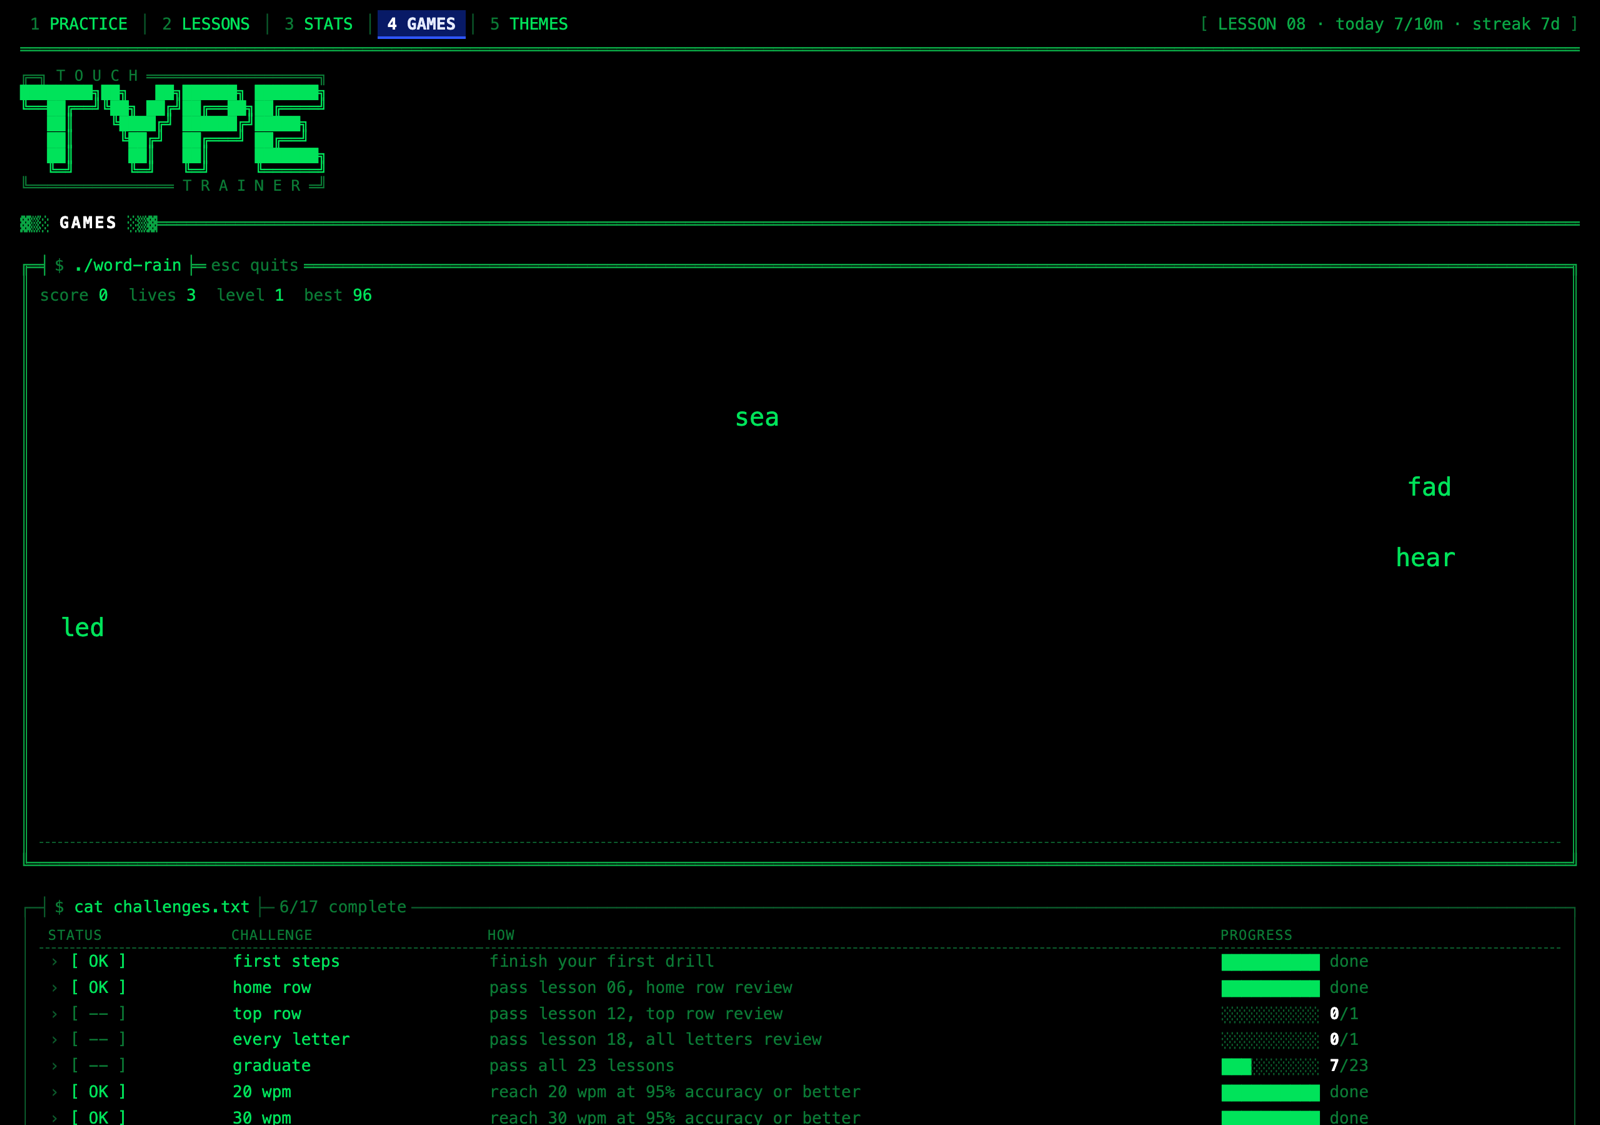
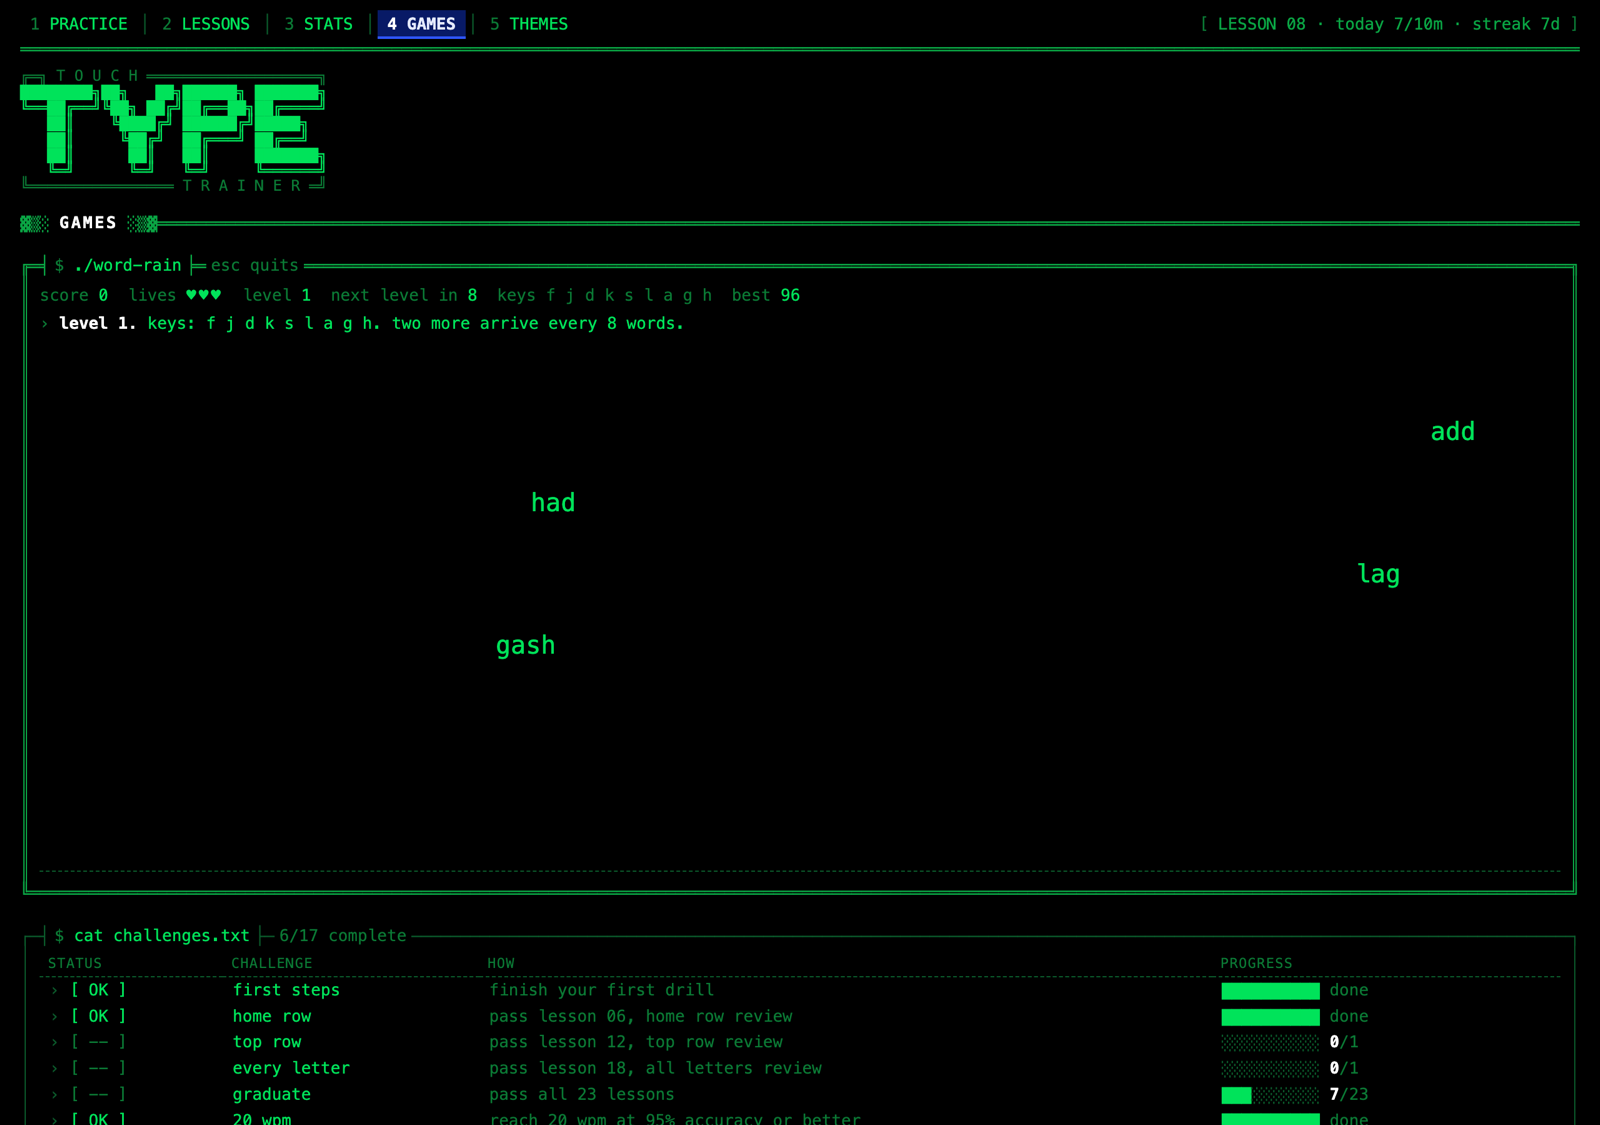
Word Rain levels: two new keys per level, hearts, backspace
Word Rain now starts with a few keys and adds two more every 8 words,
gives a life back each level and lets Backspace drop the locked word.
Updated the games screenshot and the README to match.

diff --git a/web/index.html b/web/index.html
@@ -176,6 +176,11 @@ textarea.in { width: 100%; box-sizing: border-box; resize: vertical; display: bl
 .big.k-red { color: var(--k-red); }
 .big2 { font-size: 2em; white-space: pre; }
 #gameOver { margin-top: 10px; display: grid; gap: 6px; }
+.hearts { letter-spacing: .15em; }
+.w.bad { color: var(--k-red); }
+.w.hit { color: var(--k-red); text-decoration: line-through; }
+#field.hurt { border-bottom: 2px solid var(--k-red); }
+#gameMsg { margin: 4px 0 0; }
 
 /* ── keyboard ── */
 .kbwrap { display: grid; justify-items: center; gap: 12px; padding-block: 8px 4px; }
@@ -347,6 +352,7 @@ textarea.in { width: 100%; box-sizing: border-box; resize: vertical; display: bl
   <div class="body">
     <div class="cmdtbl" id="gameMenu"></div>
     <div class="live" id="gameHud" hidden></div>
+    <p class="msg" id="gameMsg" aria-live="polite" hidden></p>
     <div id="field" hidden></div>
     <div id="gameOver" hidden></div>
   </div>
@@ -855,9 +861,9 @@ textarea.in { width: 100%; box-sizing: border-box; resize: vertical; display: bl
 
   /* ── games ── */
   let G = null;
-  const fieldEl = $('#field'), hudEl = $('#gameHud'), overEl = $('#gameOver'), menuEl = $('#gameMenu');
+  const fieldEl = $('#field'), hudEl = $('#gameHud'), overEl = $('#gameOver'), menuEl = $('#gameMenu'), msgEl = $('#gameMsg');
   const GAMES = {
-    rain: ['WORD RAIN', 'words fall. type one before it lands. three landings and it is over.'],
+    rain: ['WORD RAIN', 'words fall. type one before it lands. three landings and it is over. every 8 words is a new level with two new keys, and one life back. backspace lets go of a word.'],
     rush: ['KEY RUSH', 'one key at a time. hit as many as you can in 30 seconds.'],
     run: ['PERFECT RUN', 'type word after word, with a space between. the first wrong key ends the run.']
   };
@@ -879,7 +885,7 @@ textarea.in { width: 100%; box-sizing: border-box; resize: vertical; display: bl
   function stopGame() {
     if (G && G.timer) clearInterval(G.timer);
     G = null;
-    menuEl.hidden = false; fieldEl.hidden = true; hudEl.hidden = true; overEl.hidden = true;
+    menuEl.hidden = false; fieldEl.hidden = true; hudEl.hidden = true; overEl.hidden = true; msgEl.hidden = true;
     fieldEl.textContent = '';
     $('#gameCmd').textContent = 'ls games/';
     renderGames();
@@ -892,9 +898,14 @@ textarea.in { width: 100%; box-sizing: border-box; resize: vertical; display: bl
     menuEl.hidden = true; overEl.hidden = true; overEl.innerHTML = '';
     fieldEl.hidden = false; hudEl.hidden = false; fieldEl.textContent = '';
     fieldEl.className = id === 'rain' ? '' : 'center';
+    msgEl.hidden = id !== 'rain'; msgEl.innerHTML = '';
     $('#gameCmd').textContent = './' + GAMES[id][0].toLowerCase().replace(' ', '-');
     $('#gameNote').textContent = 'esc quits';
-    if (id === 'rain') { G.words = []; G.lives = 3; G.nextSpawn = 0; G.done = 0; G.lock = null; }
+    if (id === 'rain') {
+      G.words = []; G.lives = RAIN_LIVES; G.nextSpawn = 0; G.done = 0; G.lock = null; G.hurt = 0; G.base = rainBase();
+      rainLevel(1);
+      say('<b>level 1.</b> keys: ' + G.letters.join(' ') + '. two more arrive every ' + RAIN_STEP + ' words.');
+    }
     if (id === 'rush') { G.letters = gameKeys().split('').filter((c) => c >= 'a' && c <= 'z'); G.cur = ''; nextRush(); }
     if (id === 'run') { G.queue = []; while (G.queue.length < 5) G.queue.push(rnd(G.pool)); G.pos = 0; drawRun(); }
     G.timer = setInterval(tick, 40);
@@ -911,15 +922,57 @@ textarea.in { width: 100%; box-sizing: border-box; resize: vertical; display: bl
     fieldEl.innerHTML = '<div><div class="big2"><span class="c ok">' + esc(w.slice(0, G.pos)) + '</span><span class="c cur">' + esc(G.pos < w.length ? w[G.pos] : ' ') + '</span><span class="c">' + esc(w.slice(G.pos + 1)) + '</span></div>' +
       '<div class="k-dim">next: ' + esc(G.queue.slice(1, 4).join(' ')) + '</div></div>';
   }
-  function drawWord(w) { w.el.firstChild.textContent = w.t.slice(0, w.p); w.el.lastChild.textContent = w.t.slice(w.p); }
+  /* word rain: keys arrive two at a time, in lesson order. words are a-z only, so paint() is safe as html */
+  const RAIN_ORDER = LES.filter((L) => !L.t && !L.rev).map((L) => L.f).join('').replace(/[^a-z]/g, '').split('');
+  const RAIN_LIVES = 3, RAIN_STEP = 8;
+  const say = (html) => { msgEl.innerHTML = html; };
+  const hearts = (n) => { n = Math.max(0, Math.min(RAIN_LIVES, n)); return '<span class="hearts"><b>' + '♥'.repeat(n) + '</b><span class="k-line">' + '♡'.repeat(RAIN_LIVES - n) + '</span></span>'; };
+  const paint = (t) => t.split('').map((c) => (G.fresh.includes(c) ? '<span class="k-yellow">' + c + '</span>' : c)).join('');
+  function rainBase() {
+    const a = gameKeys();
+    return Math.max(4, Math.min(9, RAIN_ORDER.filter((c) => a.includes(c)).length));
+  }
+  function rainLevel(level) {
+    const n = Math.min(RAIN_ORDER.length, G.base + (level - 1) * 2);
+    const was = level > 1 ? Math.min(RAIN_ORDER.length, G.base + (level - 2) * 2) : n;
+    G.level = level; G.letters = RAIN_ORDER.slice(0, n); G.fresh = RAIN_ORDER.slice(was, n);
+    const al = new Set(G.letters);
+    const pool = WORDS.filter((w) => { for (const c of w) if (!al.has(c)) return false; return true; });
+    let guard = 0;
+    while (pool.length < 14 && guard++ < 400) {
+      let t = '';
+      const len = 2 + Math.floor(Math.random() * 3);
+      for (let i = 0; i < len; i++) t += G.fresh.length && Math.random() < 0.5 ? rnd(G.fresh) : rnd(G.letters);
+      if (!pool.includes(t)) pool.push(t);
+    }
+    G.pool = pool;
+    G.poolNew = pool.filter((w) => G.fresh.some((c) => w.includes(c)));
+  }
+  function rainUp() {
+    rainLevel(G.level + 1);
+    let m = '<b>level ' + G.level + '.</b> ' + (G.fresh.length ? 'new keys: <span class="k-yellow">' + G.fresh.join(' ') + '</span>.' : 'all 26 letters are in. it only gets faster now.');
+    if (G.lives < RAIN_LIVES) { G.lives++; m += ' one life back.'; }
+    say(m); beep('done');
+  }
+  function landed(w, now) {
+    w.dead = now + 500;
+    w.el.classList.remove('lock'); w.el.classList.add('hit');
+    if (G.lock === w) G.lock = null;
+    G.lives--; G.hurt = now + 500; fieldEl.classList.add('hurt');
+    say('<span class="k-red">"' + w.t + '" landed. life lost, ' + Math.max(0, G.lives) + ' left.</span>');
+    beep('bad');
+  }
+  function drawWord(w) { w.el.firstChild.textContent = w.t.slice(0, w.p); w.el.lastChild.innerHTML = paint(w.t.slice(w.p)); }
   function dropWord(w) {
     w.el.remove();
     G.words.splice(G.words.indexOf(w), 1);
     if (G.lock === w) G.lock = null;
   }
   function spawn() {
-    let t = rnd(G.pool), guard = 0;
-    while (G.words.some((w) => w.t[0] === t[0]) && guard++ < 12) t = rnd(G.pool);
+    const live = G.words.filter((w) => !w.dead);
+    const pick = () => (G.poolNew.length && Math.random() < 0.6 ? rnd(G.poolNew) : rnd(G.pool));
+    let t = pick(), guard = 0;
+    while (live.some((w) => w.t[0] === t[0]) && guard++ < 12) t = pick();
     const el = document.createElement('span');
     el.className = 'w';
     el.innerHTML = '<span class="ok"></span><span></span>';
@@ -934,15 +987,17 @@ textarea.in { width: 100%; box-sizing: border-box; resize: vertical; display: bl
     const now = performance.now(), dt = Math.min((now - G.last) / 1000, 0.2);
     G.last = now;
     if (G.id === 'rain') {
-      const level = 1 + Math.floor(G.done / 8);
-      if (now >= G.nextSpawn && G.words.length < 3 + level) { spawn(); G.nextSpawn = now + Math.max(700, 2300 - level * 160); }
+      const live = G.words.filter((w) => !w.dead).length;
+      if (now >= G.nextSpawn && live < Math.min(8, 3 + G.level)) { spawn(); G.nextSpawn = now + Math.max(1000, 2400 - G.level * 120); }
       const floor = fieldEl.clientHeight - parseFloat(getComputedStyle(fieldEl).fontSize) * 1.5;
-      const speed = 20 + level * 6;
+      const speed = 22 + G.level * 3;
       G.words.slice().forEach((w) => {
+        if (w.dead) { if (now >= w.dead) dropWord(w); return; }
         w.y += speed * dt;
+        if (w.y >= floor) { w.y = floor; landed(w, now); }
         w.el.style.transform = 'translateY(' + w.y.toFixed(1) + 'px)';
-        if (w.y >= floor) { dropWord(w); G.lives--; beep('bad'); }
       });
+      if (G.hurt && now >= G.hurt) { G.hurt = 0; fieldEl.classList.remove('hurt'); }
       if (G.lives <= 0) { endGame(); return; }
     } else if (G.id === 'rush' && now - G.start >= 30000) { endGame(); return; }
     hud();
@@ -951,7 +1006,7 @@ textarea.in { width: 100%; box-sizing: border-box; resize: vertical; display: bl
     if (!G) return;
     const best = '<span>best <b>' + (S.games[G.id] || 0) + '</b></span>';
     let h;
-    if (G.id === 'rain') h = '<span>score <b>' + G.score + '</b></span><span>lives <b>' + Math.max(0, G.lives) + '</b></span><span>level <b>' + (1 + Math.floor(G.done / 8)) + '</b></span>';
+    if (G.id === 'rain') h = '<span>score <b>' + G.score + '</b></span><span>lives ' + hearts(G.lives) + '</span><span>level <b>' + G.level + '</b></span><span>next level in <b>' + (RAIN_STEP - G.done % RAIN_STEP) + '</b></span><span>keys ' + paint(G.letters.join(' ')) + '</span>';
     else if (G.id === 'rush') h = '<span>time left <b>0:' + pad2(Math.max(0, 30 - Math.floor((performance.now() - G.start) / 1000))) + '</b></span><span>keys <b>' + G.score + '</b></span><span>wrong <b>' + G.miss + '</b></span>';
     else h = '<span>words <b>' + G.score + '</b></span><span>one wrong key ends it</span>';
     h += best;
@@ -960,17 +1015,23 @@ textarea.in { width: 100%; box-sizing: border-box; resize: vertical; display: bl
   function gameKey(k) {
     if (!G || G.over) return;
     if (G.id === 'rain') {
+      if (k === 'Backspace') {
+        const l = G.lock;
+        if (l) { l.p = 0; l.el.classList.remove('lock'); G.lock = null; drawWord(l); }
+        return;
+      }
+      k = k.toLowerCase();
       if (!G.lock) {
         let pick = null;
-        G.words.forEach((w) => { if (w.t[0] === k && (!pick || w.y > pick.y)) pick = w; });
+        G.words.forEach((w) => { if (!w.dead && w.t[0] === k && (!pick || w.y > pick.y)) pick = w; });
         if (!pick) { G.miss++; beep('bad'); hud(); return; }
         G.lock = pick; pick.el.classList.add('lock');
       }
       const w = G.lock;
       if (w.t[w.p] === k) {
         w.p++; beep('ok'); drawWord(w);
-        if (w.p >= w.t.length) { G.score += w.t.length; G.done++; dropWord(w); }
-      } else { G.miss++; beep('bad'); }
+        if (w.p >= w.t.length) { G.score += w.t.length; G.done++; dropWord(w); if (G.done % RAIN_STEP === 0) rainUp(); }
+      } else { G.miss++; beep('bad'); w.el.classList.add('bad'); setTimeout(() => w.el.classList.remove('bad'), 200); }
     } else if (G.id === 'rush') {
       if (k === G.cur) { G.score++; beep('ok'); nextRush(); }
       else { G.miss++; beep('bad'); if (fieldEl.firstChild) fieldEl.firstChild.classList.add('k-red'); }
@@ -997,7 +1058,7 @@ textarea.in { width: 100%; box-sizing: border-box; resize: vertical; display: bl
     save(); beep('done'); renderToday();
     fieldEl.hidden = true;
     overEl.innerHTML = '<div class="res-nums"><span><span class="num">' + G.score + '</span> ' + (G.id === 'rain' ? 'score' : G.id === 'rush' ? 'keys' : 'words') + '</span><span>best <b>' + Math.max(old, G.score) + '</b></span>' +
-      (nb ? '<span><b>new best</b></span>' : '') + (G.id !== 'run' ? '<span>wrong keys <b>' + G.miss + '</b></span>' : '') + '</div>' + achLine(earned) +
+      (nb ? '<span><b>new best</b></span>' : '') + (G.id === 'rain' ? '<span>level <b>' + G.level + '</b></span><span>words <b>' + G.done + '</b></span>' : '') + (G.id !== 'run' ? '<span>wrong keys <b>' + G.miss + '</b></span>' : '') + '</div>' + achLine(earned) +
       '<div class="ctrls"><button class="run" type="button" data-game="' + G.id + '">▶ PLAY AGAIN</button><span class="hint"><kbd>enter</kbd></span>' +
       '<button class="run" type="button" data-game="menu">▶ BACK TO GAMES</button><span class="hint"><kbd>esc</kbd></span></div>';
     overEl.hidden = false;
@@ -1174,7 +1235,7 @@ textarea.in { width: 100%; box-sizing: border-box; resize: vertical; display: bl
     }
     if (page === 'games' && G && !G.over) {
       if (k === 'Escape') { e.preventDefault(); stopGame(); }
-      else if (k.length === 1) { e.preventDefault(); gameKey(k); }
+      else if (k.length === 1 || (k === 'Backspace' && G.id === 'rain')) { e.preventDefault(); gameKey(k); }
       return;
     }
     if (page === 'games' && G && G.over) {
@@ -1201,6 +1262,5 @@ textarea.in { width: 100%; box-sizing: border-box; resize: vertical; display: bl
   startDrill();
 })();
 </script>
-
 </body>
 </html>

diff --git a/README.md b/README.md
@@ -44,7 +44,7 @@ Needs macOS 12 or later and the Xcode Command Line Tools (`xcode-select --instal
 - **Your own words.** Paste product names, code or anything you type often, and practise on it.
 - **Stats.** Accuracy and timing per key, speed per finger, a keyboard heat map and your words per minute over time.
 - **Daily goal and streak.** Set 5 to 30 minutes a day and see your last 14 days at a glance.
-- **Mini games.** Word Rain, Key Rush and Perfect Run, using only the keys you've learned so far.
+- **Mini games.** Word Rain adds two new keys every level, Key Rush gives you 30 seconds of single keys, and Perfect Run ends on your first mistake.
 - **17 challenges.** Milestones for lessons, speed, accuracy, practice habits and game scores.
 - **8 themes.** Phosphor green, amber, mono ink, ice, neon, high contrast, paper, or auto to follow your system.
 - **Optional sound.** Soft clicks for right and wrong keys, off by default.
@@ -73,6 +73,7 @@ Needs macOS 12 or later and the Xcode Command Line Tools (`xcode-select --instal
 |---|---|
 | <kbd>1</kbd> to <kbd>5</kbd> | Switch page: Practice, Lessons, Stats, Games, Themes |
 | <kbd>Esc</kbd> | New drill, or quit a game |
+| <kbd>Backspace</kbd> | Let go of a word in Word Rain |
 | <kbd>Enter</kbd> | Next lesson after a pass, or play a game again |
 | <kbd>R</kbd> | Retry the same text |
 | <kbd>W</kbd> | Drill your weakest keys |
